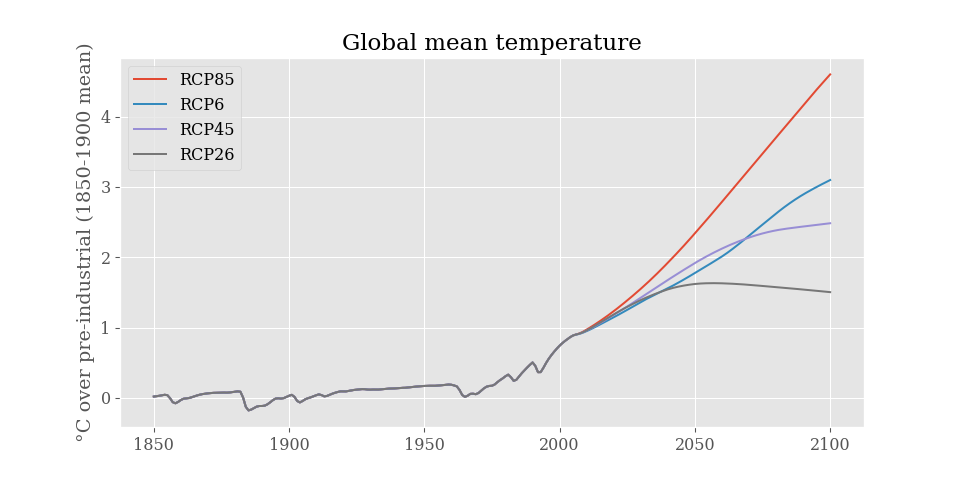
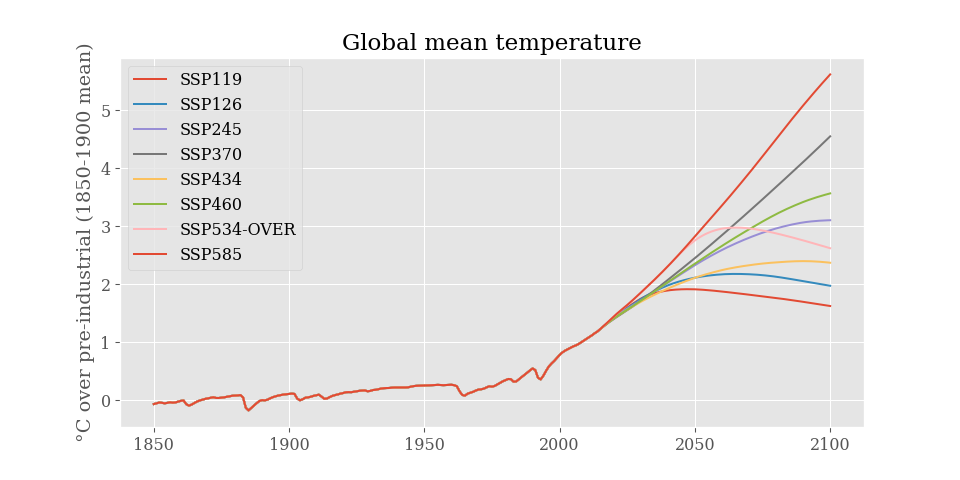
Update plot

diff --git a/scripts/plot_example.py b/scripts/plot_example.py
@@ -8,14 +8,13 @@ plt.rcParams["font.family"] = "serif"
 plt.rcParams["font.size"] = 12
 
 import pyhector
-from pyhector import rcp26, rcp45, rcp60, rcp85
+from pyhector import ssp119, ssp126, ssp245, ssp370, ssp434, ssp460, ssp534_over, ssp585
 
-path = os.path.join(os.path.dirname(__file__),
-                    '../docs/example-plot.png')
+path = os.path.join(os.path.dirname(__file__), "../docs/example-plot.png")
 
-for rcp in [rcp85, rcp60, rcp45, rcp26]:
+for rcp in [ssp119, ssp126, ssp245, ssp370, ssp434, ssp460, ssp534_over, ssp585]:
     output = pyhector.run(rcp, {"core": {"endDate": 2100}})
-    temp = output["temperature.Tgav"]
+    temp = output["temperature.global_tas"]
     temp = temp.loc[1850:] - temp.loc[1850:1900].mean()
     temp.plot(label=rcp.name.split("_")[0])
 plt.title("Global mean temperature")
